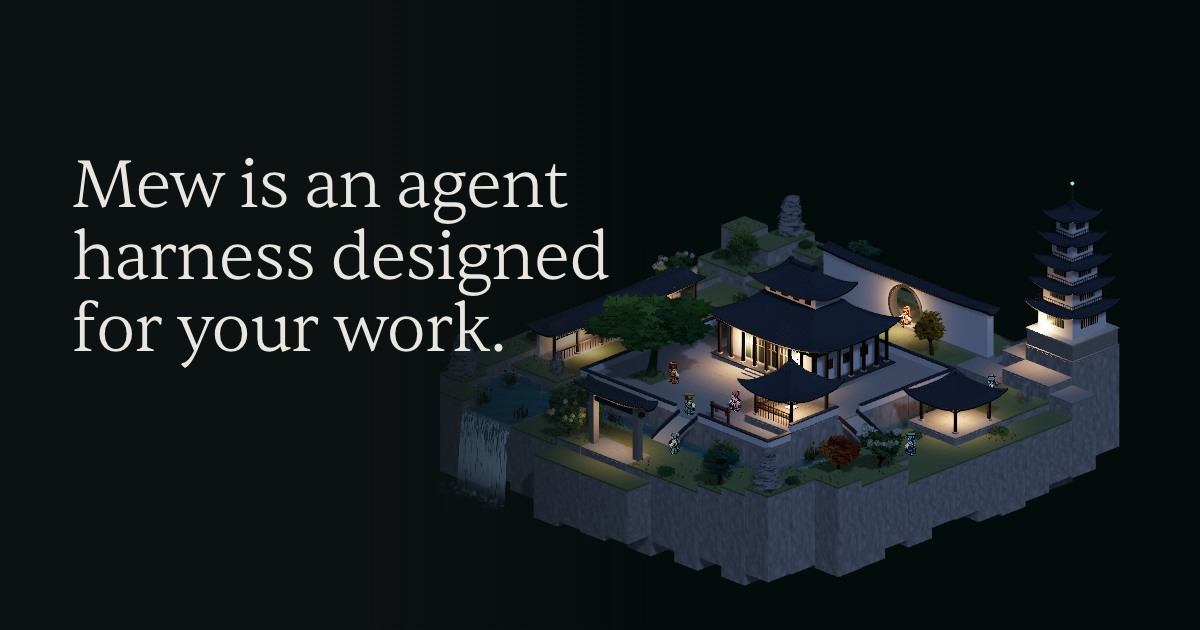
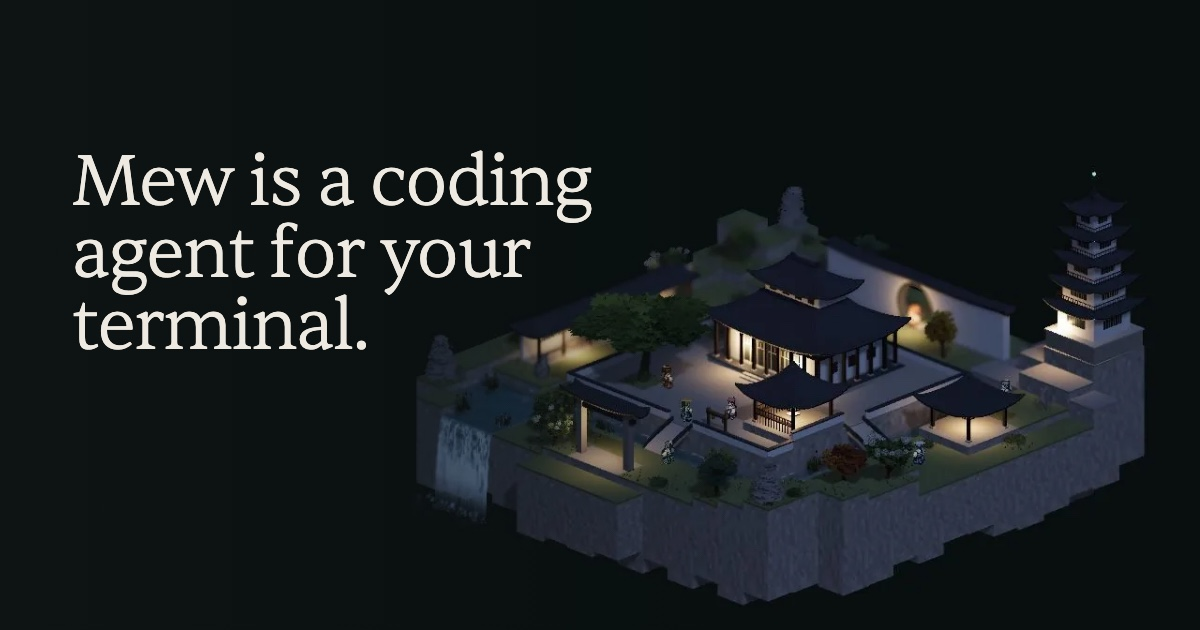
Give the homepage concrete examples from Mew

Changed region(s): [[0.0617, 0.2413, 0.9558, 0.9651], [0.4008, 0.6032, 0.4317, 0.6333]]

diff --git a/jianghu/mew.html b/jianghu/mew.html
@@ -46,10 +46,10 @@
 <main data-mew-story>
   <section class="hero" id="top" data-focus="garden">
     <div class="intro">
-      <h1>Mew is an agent harness designed for your work.</h1>
-      <p class="lede">mew gives you a place to work with agents you can configure. Choose a model, give it instructions, and decide which tools it can use.</p>
+      <h1>Mew is a coding agent for your terminal.</h1>
+      <p class="lede">Run <code>mew</code> from a project directory with a model provider you’ve configured. It can read the repo, edit files, and run commands with the permissions you set.</p>
       <div class="ctas">
-        <a class="mew-button primary" href="https://mew.computer/docs/getting-started/installation/" data-install-link>Get started with mew <span aria-hidden="true">→</span></a>
+        <a class="mew-button primary" href="https://mew.computer/docs/getting-started/installation/" data-install-link>Install mew <span aria-hidden="true">→</span></a>
         <a class="mew-button" href="https://github.com/mewcomputer/mew">View on GitHub</a>
       </div>
       <p class="note">mew is experimental and under active development.</p>
@@ -60,52 +60,48 @@
   <section class="room" data-focus="hall" data-side="left">
     <div class="panel">
       <p class="num">01</p>
-      <h2>Give it a task.</h2>
-      <p>Ask mew to explore a codebase, investigate a problem, or make a change. It can search and read files, edit them, and run commands as the work takes shape.</p>
-      <p>You can follow along, answer questions, and change direction at any point.</p>
+      <h2>See what it ran</h2>
+      <p>Ask Mew to find where an error comes from. It can search for the message and follow it back to the call site. If it runs a test, the command and its output show up in the chat.</p>
     </div>
   </section>
 
   <section class="room" data-focus="pavilion" data-side="right">
     <div class="panel">
       <p class="num">02</p>
-      <h2>Bring in another agent.</h2>
-      <p>Give a subagent a focused task while mew continues working. Ask for an investigation, a review, or a second perspective on a plan. The subagent reports its result back to the conversation.</p>
-      <p>You can give subagents their own instructions and choose which models and tools they use.</p>
+      <h2>A second set of eyes</h2>
+      <p>Give a subagent a diff to review while Mew keeps working. The reviewer works in its own conversation and sends its findings back. You can give it its own instructions and model.</p>
     </div>
   </section>
 
   <section class="room" data-focus="gallery" data-side="left">
     <div class="panel">
       <p class="num">03</p>
-      <h2>Make an agent for the job.</h2>
-      <p>Personas let you give an agent a role and its own instructions. You might set up one for coding, one for research, or one that’s just there for conversation.</p>
-      <p>Each persona can use a different model and tool set. Give a coding persona access to the shell, or leave tools off entirely.</p>
+      <h2>From planner to builder</h2>
+      <p>Ask the planner persona to write a plan, then switch to the builder to work through it. For a persona of your own, put its instructions in <code>PERSONA.md</code> and set which model and tools it can use.</p>
     </div>
   </section>
 
   <section class="room" data-focus="wall" data-side="right">
     <div class="panel">
       <p class="num">04</p>
-      <h2>Choose when mew asks.</h2>
-      <p>Set permissions for the actions you want to review. You can configure rules for tools, commands, and paths, then choose a permission mode that suits the work.</p>
+      <h2>Approve a command once</h2>
+      <p>A permission prompt shows the command before it runs. You can allow that call, allow the tool for the session, or deny it. For a command you run often, set an allow rule in <code>config.toml</code>.</p>
     </div>
   </section>
 
   <section class="room" data-focus="gate" data-side="left">
     <div class="panel">
       <p class="num">05</p>
-      <h2>Give it context that carries forward.</h2>
-      <p>Add project instructions and reusable skills for the things you do often. Mew can load them into a conversation as needed.</p>
-      <p>Your sessions are saved locally, so you can return to a conversation and see what happened.</p>
+      <h2>The repo comes with instructions</h2>
+      <p>Put project instructions in <code>AGENTS.md</code>. A procedure like preparing a release can go in a <code>SKILL.md</code> that Mew loads when needed. Use <code>/sessions</code> to reopen a saved chat.</p>
     </div>
   </section>
 
   <section class="room" id="start" data-focus="tower" data-side="left">
     <div class="panel">
       <p class="num">06</p>
-      <h2>Start with a model and a task.</h2>
-      <p>Choose a supported provider, open a session, and tell mew what you want to work on.</p>
+      <h2>Install mew</h2>
+      <p>After installing, follow the guide to set up a model provider. Run <code>mew</code> from the repo you want to work in.</p>
       <!-- install-picker -->
       <div class="ctas">
         <a class="mew-button" href="https://mew.computer/docs/getting-started/installation/">Read the install guide</a>

diff --git a/CURRENT.md b/CURRENT.md
@@ -4465,3 +4465,12 @@ no gaps over 50 ms, compared with 474 frames and two such gaps before.
 Forced software rendering improved from 11 to 121 scroll frames on the
 same path and switched to the still. Also checked chapter scrolling,
 garden controls, and the install picker at a 390 px viewport.
+
+### 2026-11-19: Homepage copy pass
+
+Updated the hero and chapter copy with examples from the terminal client,
+including test output, diff review, personas, and approval prompts. Matched
+the metadata and social card to the new headline.
+
+All 12 site tests passed. Checked the hero and install link at 390 and
+1280 pixels and inspected the 1200 × 630 social card.
